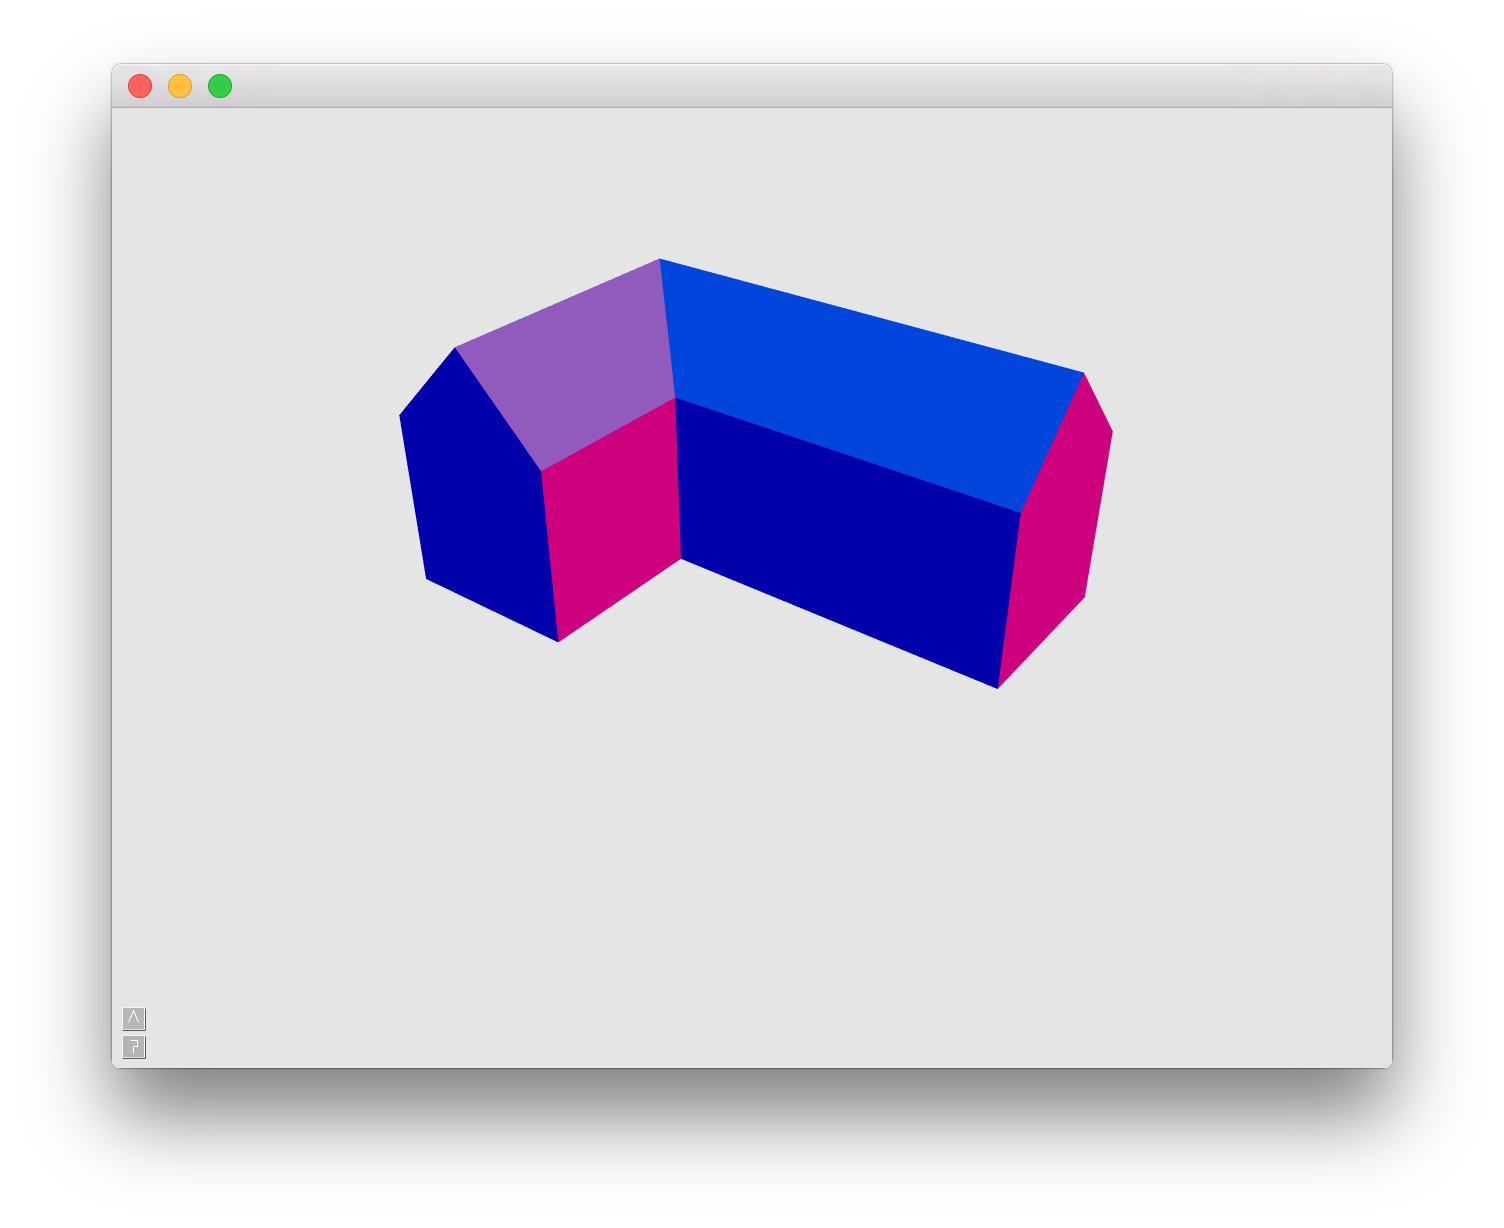
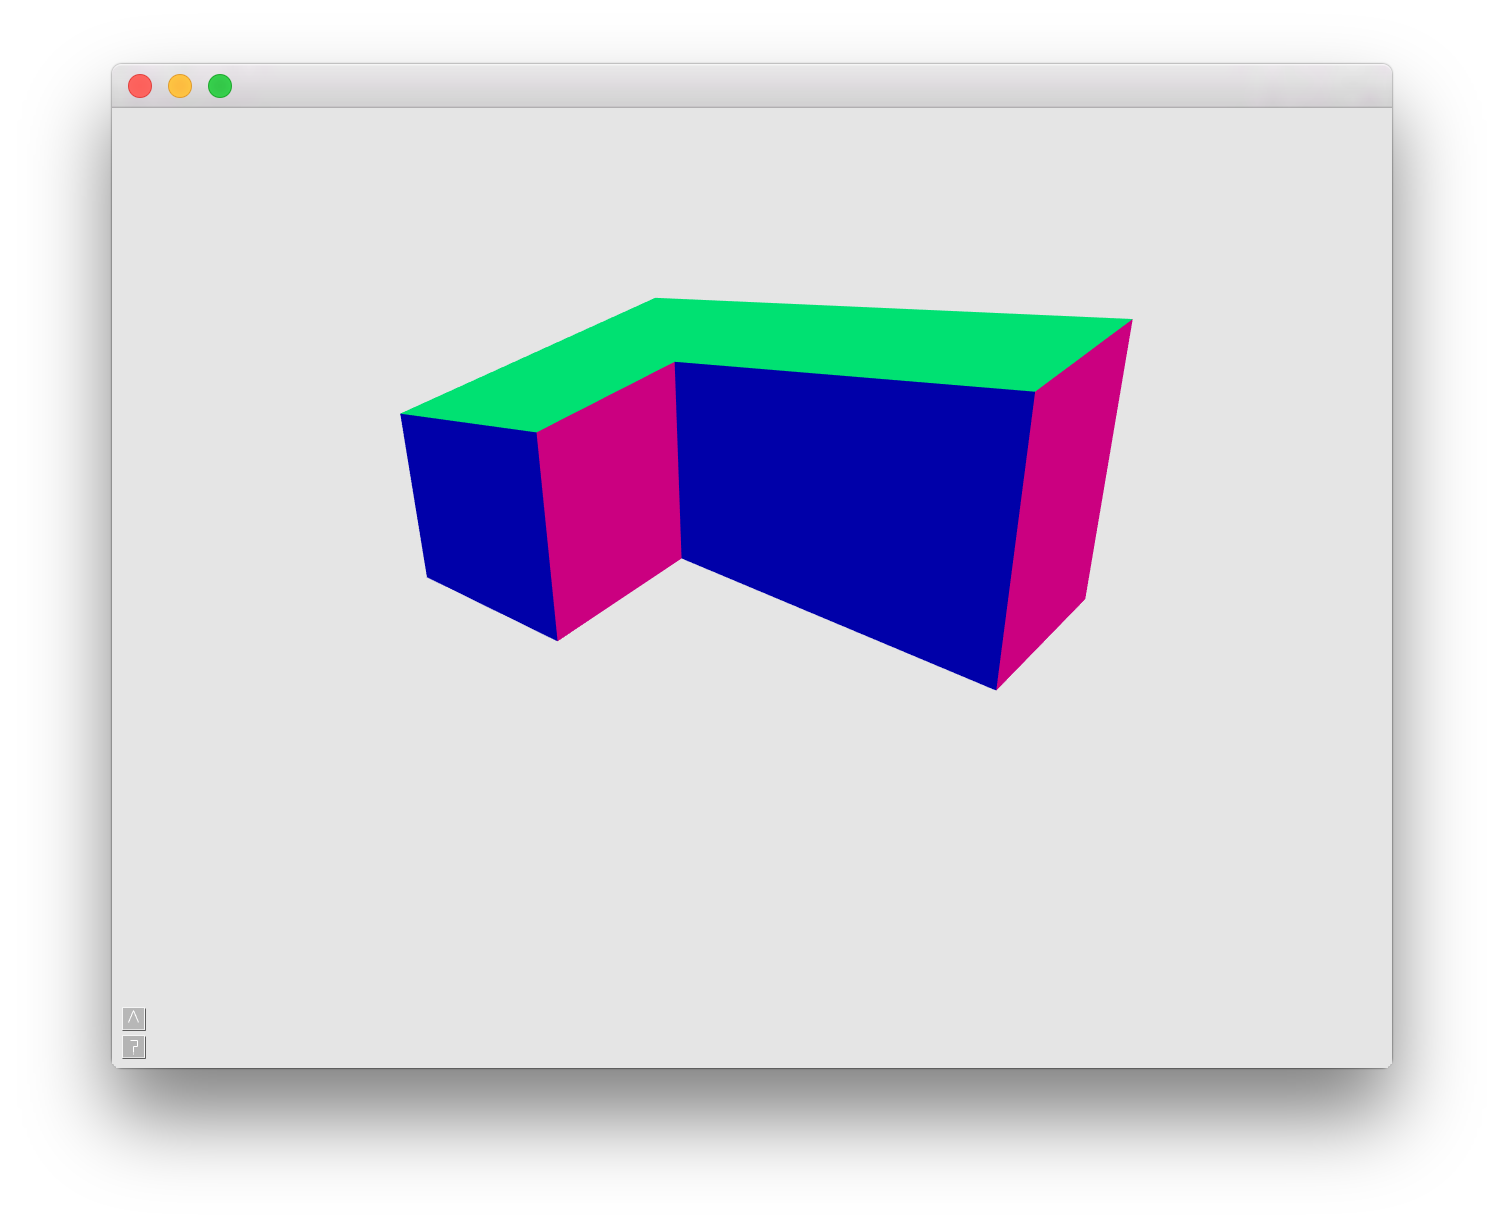
Got a very baseic shed roof working

Changed region(s): [[0.25, 0.2166, 0.75, 0.4332]]

diff --git a/src/BuildingPlan.cpp b/src/BuildingPlan.cpp
@@ -39,40 +39,73 @@ const ci::PolyLine2f BuildingPlan::outline(const ci::Vec2f offset, const float r
 // We're building the walls using individual triangles (rather than strip) so we
 // can use Cinder's triangulator to build the roof.
 //
-void buildWalls(const PolyLine2f &outline, const float roofHeight, vector<Vec3f> &verts, vector<uint32_t> &indices)
+void buildWallsFromOutline(const PolyLine2f &outline, const float roofHeight, vector<Vec3f> &verts, vector<uint32_t> &indices)
 {
+    uint32_t base = verts.size();
     for ( auto i = outline.begin(); i != outline.end(); ++i ) {
-        verts.push_back(Vec3f(i->x, i->y, 0));
-        verts.push_back(Vec3f(i->x, i->y, roofHeight));
+        verts.push_back( Vec3f( i->x, i->y, 0 ) );
+        verts.push_back( Vec3f( i->x, i->y, roofHeight ) );
     }
-    // I'm not 100% sure I got the right winding order here...
-    uint32_t index;
-    for ( index = 2; index < verts.size(); index += 2 ) {
-        indices.push_back(index + 0);
-        indices.push_back(index + 1);
-        indices.push_back(index - 1);
-        indices.push_back(index + 0);
-        indices.push_back(index - 1);
-        indices.push_back(index - 2);
+    uint16_t totalVerts = verts.size();
+
+    uint32_t i = base + 2;
+    for ( ; i < totalVerts; i += 2 ) {
+        indices.push_back( i + 0 );
+        indices.push_back( i + 1 );
+        indices.push_back( i - 1 );
+        indices.push_back( i + 0 );
+        indices.push_back( i - 1 );
+        indices.push_back( i - 2 );
     }
-    indices.push_back(0);
-    indices.push_back(1);
-    indices.push_back(index - 1);
-    indices.push_back(0);
-    indices.push_back(index - 1);
-    indices.push_back(index - 2);
+    indices.push_back( base + 0 );
+    indices.push_back( base + 1 );
+    indices.push_back( i - 1 );
+    indices.push_back( base + 0 );
+    indices.push_back( i - 1 );
+    indices.push_back( i - 2 );
 }
 
-void buildFlatRoof(const PolyLine2f &outline, const float roofHeight, vector<Vec3f> &verts, vector<uint32_t> &indices)
+// Using this for the walls in the roof (like the shed roof)
+void buildWallsFromOutlineAndTopOffsets(const PolyLine2f &outline, const float bottomHeight, const OffsetMap &topOffsets, vector<Vec3f> &verts, vector<uint32_t> &indices)
+{
+    uint32_t base = verts.size();
+    for ( auto i = outline.begin(); i != outline.end(); ++i ) {
+        auto it = topOffsets.find( std::make_pair( i->x, i->y ) );
+        Vec3f offset = ( it == topOffsets.end() ) ? Vec3f::zero() : it->second;
+        Vec3f bottom = Vec3f( i->x, i->y, bottomHeight );
+        verts.push_back( bottom );
+        verts.push_back( bottom + offset );
+    }
+    uint16_t totalVerts = verts.size();
+
+    uint32_t i = base + 2;
+    for ( ; i < totalVerts; i += 2 ) {
+        indices.push_back( i + 0 );
+        indices.push_back( i + 1 );
+        indices.push_back( i - 1 );
+        indices.push_back( i + 0 );
+        indices.push_back( i - 1 );
+        indices.push_back( i - 2 );
+    }
+    indices.push_back( base + 0 );
+    indices.push_back( base + 1 );
+    indices.push_back( i - 1 );
+    indices.push_back( base + 0 );
+    indices.push_back( i - 1 );
+    indices.push_back( i - 2 );
+}
+
+void buildRoofFaceFromOutlineAndOffsets( const PolyLine2f &outline, const OffsetMap &offsets, const float roofHeight, vector<Vec3f> &verts, vector<uint32_t> &indices )
 {
     uint32_t index = verts.size();
-
     ci::Triangulator triangulator( outline );
     ci::TriMesh2d roofMesh = triangulator.calcMesh();
 
     std::vector<Vec2f> roofVerts = roofMesh.getVertices();
     for ( auto i = roofVerts.begin(); i != roofVerts.end(); ++i) {
-        verts.push_back( Vec3f( *i, roofHeight ) );
+        auto it = offsets.find( std::make_pair( i->x, i->y ) );
+        Vec3f offset = it == offsets.end() ? Vec3f::zero() : it->second;
+        verts.push_back( offset + Vec3f( *i, roofHeight ) );
     }
 
     std::vector<uint32_t> roofIndices = roofMesh.getIndices();
@@ -95,7 +128,7 @@ OffsetMap heightOfSkeleton( const SsPtr &skel )
 }
 
 // - triangulate roof faces and add to mesh
-void buildMeshFromSkeletonAndOffsets( const SsPtr &skel, const OffsetMap &offsets, const float roofHeight, vector<Vec3f> &verts, vector<uint32_t> &indices )
+void buildRoofFromSkeletonAndOffsets( const SsPtr &skel, const OffsetMap &offsets, const float roofHeight, vector<Vec3f> &verts, vector<uint32_t> &indices )
 {
     for( auto face = skel->faces_begin(); face != skel->faces_end(); ++face ) {
         PolyLine2f faceOutline;
@@ -106,22 +139,14 @@ void buildMeshFromSkeletonAndOffsets( const SsPtr &skel, const OffsetMap &offset
             edge = edge->next();
         } while (edge != start);
 
-        uint32_t index = verts.size();
-        ci::Triangulator triangulator( faceOutline );
-        ci::TriMesh2d roofMesh = triangulator.calcMesh();
-
-        std::vector<Vec2f> roofVerts = roofMesh.getVertices();
-        for ( auto i = roofVerts.begin(); i != roofVerts.end(); ++i) {
-            auto it = offsets.find( std::make_pair( i->x, i->y ) );
-            Vec3f offset = it == offsets.end() ? Vec3f::zero() : it->second;
-            verts.push_back( offset + Vec3f( *i, roofHeight ) );
-        }
-
-        std::vector<uint32_t> roofIndices = roofMesh.getIndices();
-        for ( auto i = roofIndices.begin(); i != roofIndices.end(); ++i) {
-            indices.push_back( index + *i );
-        }
+        buildRoofFaceFromOutlineAndOffsets( faceOutline, offsets, roofHeight, verts, indices );
     }
+}
+
+void buildFlatRoof(const PolyLine2f &outline, const float roofHeight, vector<Vec3f> &verts, vector<uint32_t> &indices)
+{
+    OffsetMap empty;
+    buildRoofFaceFromOutlineAndOffsets( outline, empty, roofHeight, verts, indices );
 }
 
 void buildHippedRoof(const PolyLine2f &outline, const float roofHeight, vector<Vec3f> &verts, vector<uint32_t> &indices)
@@ -133,7 +158,7 @@ void buildHippedRoof(const PolyLine2f &outline, const float roofHeight, vector<V
     std::map<std::pair<float, float>, Vec3f> offsetMap = heightOfSkeleton( skel );
 
     // - triangulate roof faces and add to mesh
-    buildMeshFromSkeletonAndOffsets(skel, offsetMap, roofHeight, verts, indices);
+    buildRoofFromSkeletonAndOffsets(skel, offsetMap, roofHeight, verts, indices);
 }
 
 void buildGabledRoof(const PolyLine2f &outline, const float roofHeight, vector<Vec3f> &verts, vector<uint32_t> &indices)
@@ -186,7 +211,34 @@ void buildGabledRoof(const PolyLine2f &outline, const float roofHeight, vector<V
     }
 
     // - triangulate roof faces and add to mesh
-    buildMeshFromSkeletonAndOffsets(skel, offsetMap, roofHeight, verts, indices);
+    buildRoofFromSkeletonAndOffsets(skel, offsetMap, roofHeight, verts, indices);
+}
+
+// TODO:
+// - decide on how to orient the slope of the roof. one option is to find
+//   longest side of the outline and use that to define the roof plane. another
+//   would be passing in an angle.
+// - get a proper formula for determining height
+void buildShedRoof(const PolyLine2f &outline, const float roofHeight, const float slope, vector<Vec3f> &verts, vector<uint32_t> &indices)
+{
+    // For now we find the left most point and have the roof slope up along the
+    // x-axis from there.
+    assert( outline.size() > 0 );
+    float leftmost = outline.begin()->x;
+    for (auto i = outline.begin() + 1; i != outline.end(); ++i) {
+        if (i->x < leftmost) leftmost = i->x;
+    }
+
+    // - compute the height of vertexes base on position on the roof
+    std::map<std::pair<float, float>, Vec3f> offsetMap;
+    for (auto i = outline.begin(); i != outline.end(); ++i) {
+        float z = slope * (i->x - leftmost);
+        offsetMap[ std::make_pair( i->x, i->y ) ] = Vec3f( 0, 0, z );
+    }
+
+    // - triangulate roof faces and add to mesh
+    buildRoofFaceFromOutlineAndOffsets( outline, offsetMap, roofHeight, verts, indices );
+    buildWallsFromOutlineAndTopOffsets( outline, roofHeight, offsetMap, verts, indices );
 }
 
 gl::VboMeshRef BuildingPlan::makeMesh()
@@ -196,7 +248,7 @@ gl::VboMeshRef BuildingPlan::makeMesh()
 
     float roofHeight = mFloors * 10;
 
-    buildWalls(mOutline, roofHeight, verts, indices);
+    buildWallsFromOutline(mOutline, roofHeight, verts, indices);
 
     // Build roof
     switch ( mRoof ) {
@@ -209,14 +261,14 @@ gl::VboMeshRef BuildingPlan::makeMesh()
         case GABLED_ROOF:
             buildGabledRoof(mOutline, roofHeight, verts, indices);
             break;
-        case GAMBREL_ROOF:
-            // probably based off GABLED with an extra division of the faces to give it the barn look
+        case SAWTOOTH_ROOF:
             break;
         case SHED_ROOF:
-            // probably requires customizing the wall heights
-            // - find longest line and use that as intersection of roof plane
-            // - determine slope of roof
-            // - compute heights of outline vertexes based on their position on roof plane
+            // Make slope configurable... might be good for other angled roofs.
+            buildShedRoof(mOutline, roofHeight, 0.2, verts, indices);
+            break;
+        case GAMBREL_ROOF:
+            // probably based off GABLED with an extra division of the faces to give it the barn look
             break;
     }
 

diff --git a/src/Mode.cpp b/src/Mode.cpp
@@ -116,11 +116,13 @@ void BuildingMode::setup() {
 }
 
 void BuildingMode::addParams( params::InterfaceGlRef params ) {
-    params->addButton( "<", [&] {
-        mBuilding = Building::create( BuildingPlan( BuildingPlan::triangle(), mFloors, mBuildingRoof ) );
-    }, "key=1" );
-    params->addButton( "[]", [&] {
+    params->addParam( "Roof", BuildingPlan::roofStyleNames(),  (int*)(&mBuildingRoof) );
+    params->addSeparator();
+    params->addButton( "Square", [&] {
         mBuilding = Building::create( BuildingPlan( BuildingPlan::square(), mFloors, mBuildingRoof ) );
+    }, "key=1" );
+    params->addButton( "Rect", [&] {
+        mBuilding = Building::create( BuildingPlan( BuildingPlan::rectangle(60, 40), mFloors, mBuildingRoof ) );
     }, "key=2" );
     params->addButton( "L", [&] {
         mBuilding = Building::create( BuildingPlan( BuildingPlan::lshape(), mFloors, mBuildingRoof ) );
@@ -131,8 +133,9 @@ void BuildingMode::addParams( params::InterfaceGlRef params ) {
     params->addButton( "+", [&] {
         mBuilding = Building::create( BuildingPlan( BuildingPlan::plus(), mFloors, mBuildingRoof ) );
     }, "key=5" );
-
-    params->addParam( "Roof", BuildingPlan::roofStyleNames(),  (int*)(&mBuildingRoof) );
+    params->addButton( "<", [&] {
+        mBuilding = Building::create( BuildingPlan( BuildingPlan::triangle(), mFloors, mBuildingRoof ) );
+    }, "key=7" );
 }
 
 void BuildingMode::addPoint( ci::Vec2f point ) {

diff --git a/include/BuildingPlan.h b/include/BuildingPlan.h
@@ -39,9 +39,15 @@ public:
     }
 
     static ci::PolyLine2f square() {
+        return rectangle( 20, 20 );
+    }
+
+    static ci::PolyLine2f rectangle( const uint16_t width, const uint16_t height ) {
+        float w = width / 2.0;
+        float h = height / 2.0;
         return ci::PolyLine2f( {
-            ci::Vec2f(10, -10), ci::Vec2f(10, 10),
-            ci::Vec2f(-10, 10), ci::Vec2f(-10, -10)
+            ci::Vec2f(w, -h), ci::Vec2f(w, h),
+            ci::Vec2f(-w, h), ci::Vec2f(-w, -h)
         } );
     }
 

diff --git a/src/Building.cpp b/src/Building.cpp
@@ -29,7 +29,7 @@ void Building::draw( const Options &options ) const
         options.buildingShader->unbind();
 
 //        gl::enableWireframe();
-//        gl::draw( mMesh );
+//        gl::draw( mPlan.meshRef() );
 //        gl::disableWireframe();
 
         gl::disable( GL_CULL_FACE );

diff --git a/include/Mode.h b/include/Mode.h
@@ -69,7 +69,7 @@ public:
     void draw();
 
     BuildingRef     mBuilding;
-    BuildingPlan::RoofStyle mBuildingRoof = BuildingPlan::GABLED_ROOF;
+    BuildingPlan::RoofStyle mBuildingRoof = BuildingPlan::SHED_ROOF;
     uint32_t        mFloors = 1;
     
 };

diff --git a/TODO.md b/TODO.md
@@ -15,14 +15,13 @@
   - sky scraper
   - warehouse
 - Optimize mesh building and rendering.
+  - Separate meshes for roof and walls. Scale walls for floors.
   - Cache plans by outline so they're not rebuilt every time the layout changes.
-  - If we had separate roof and wall meshes we could scale walls based on height.
 - Expand roof outline to overlap house (soffit)
 - More roof styles:
   - sawtooth (warehouses)
   - saltbox
   - gabled
-  - shed
 
 ## Lot
 
